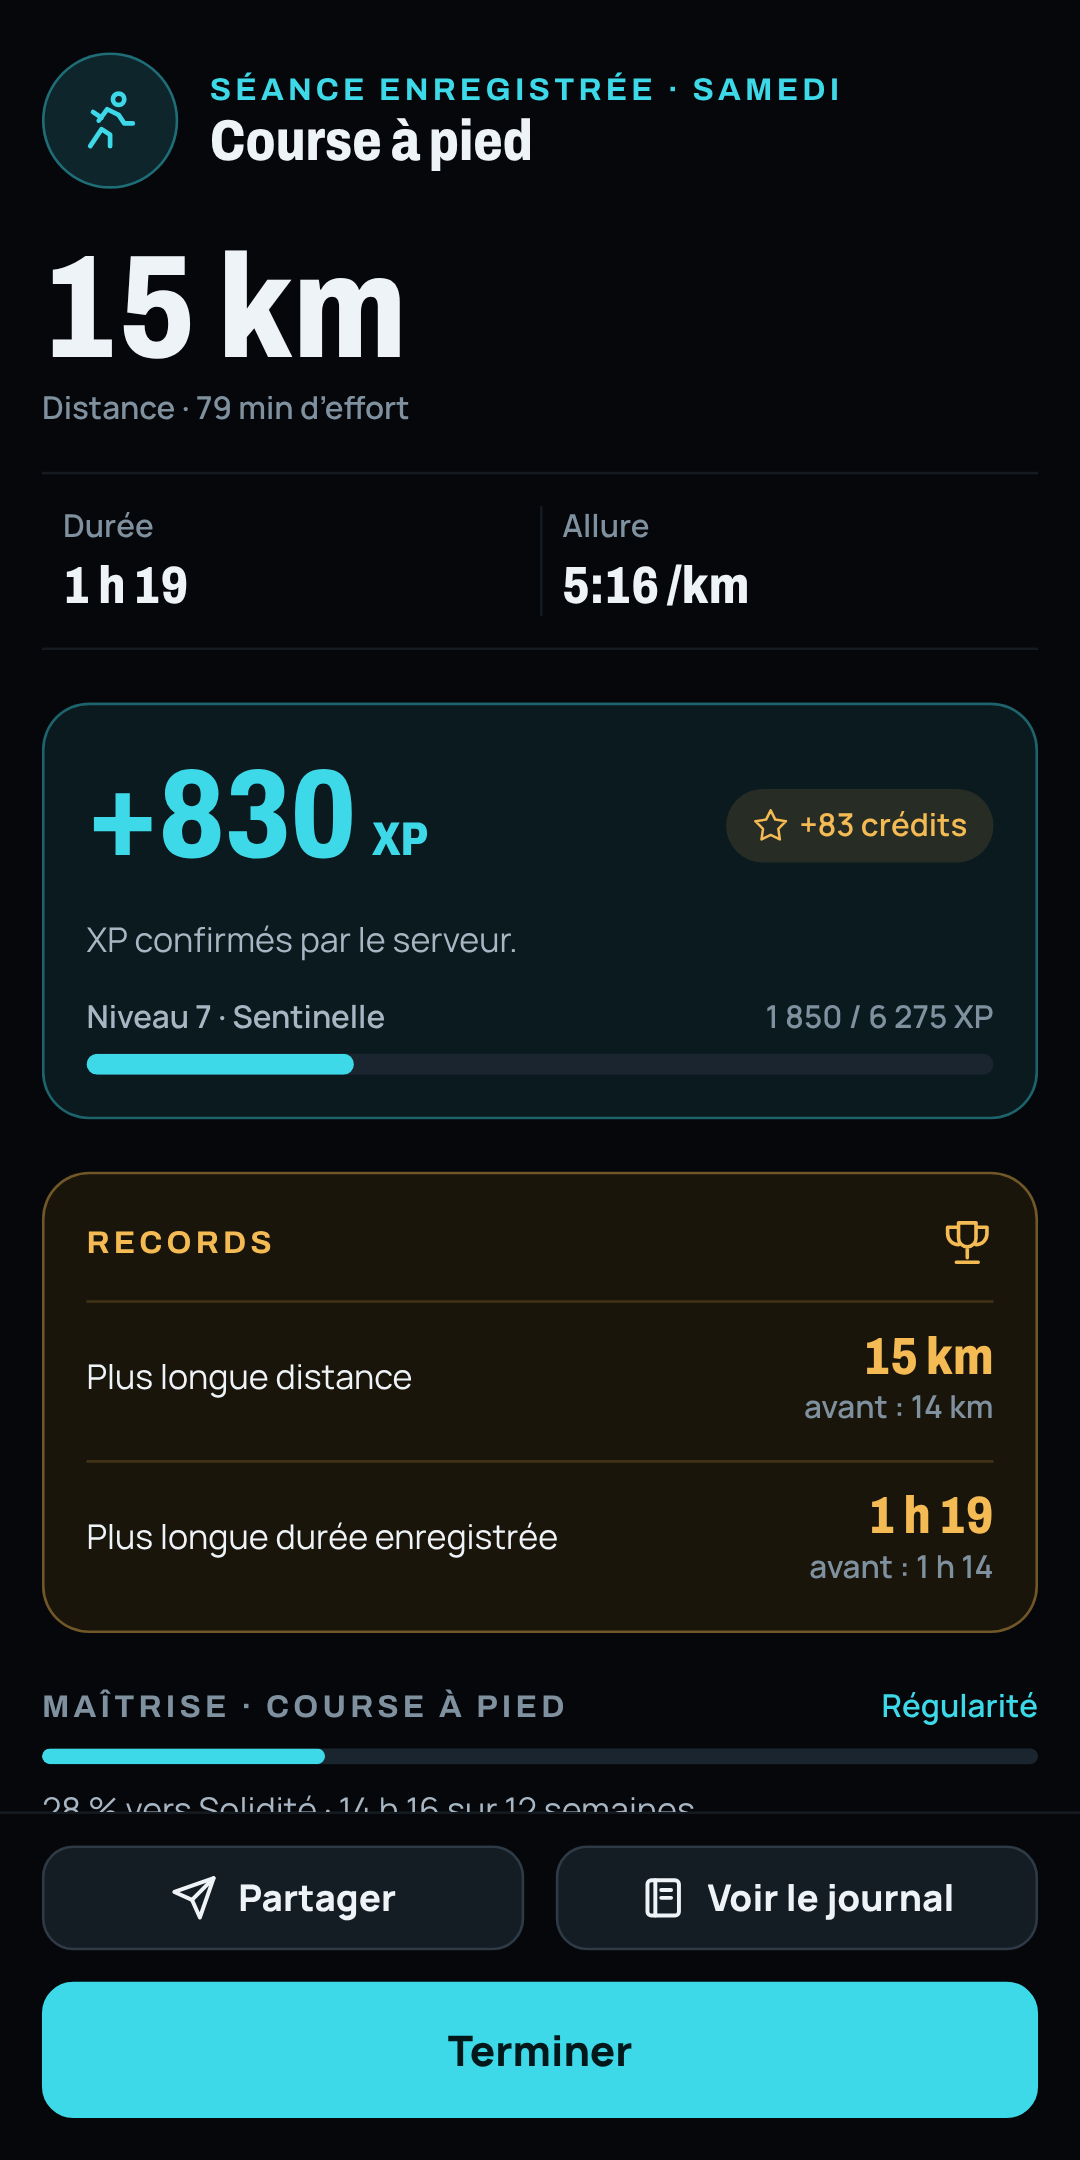
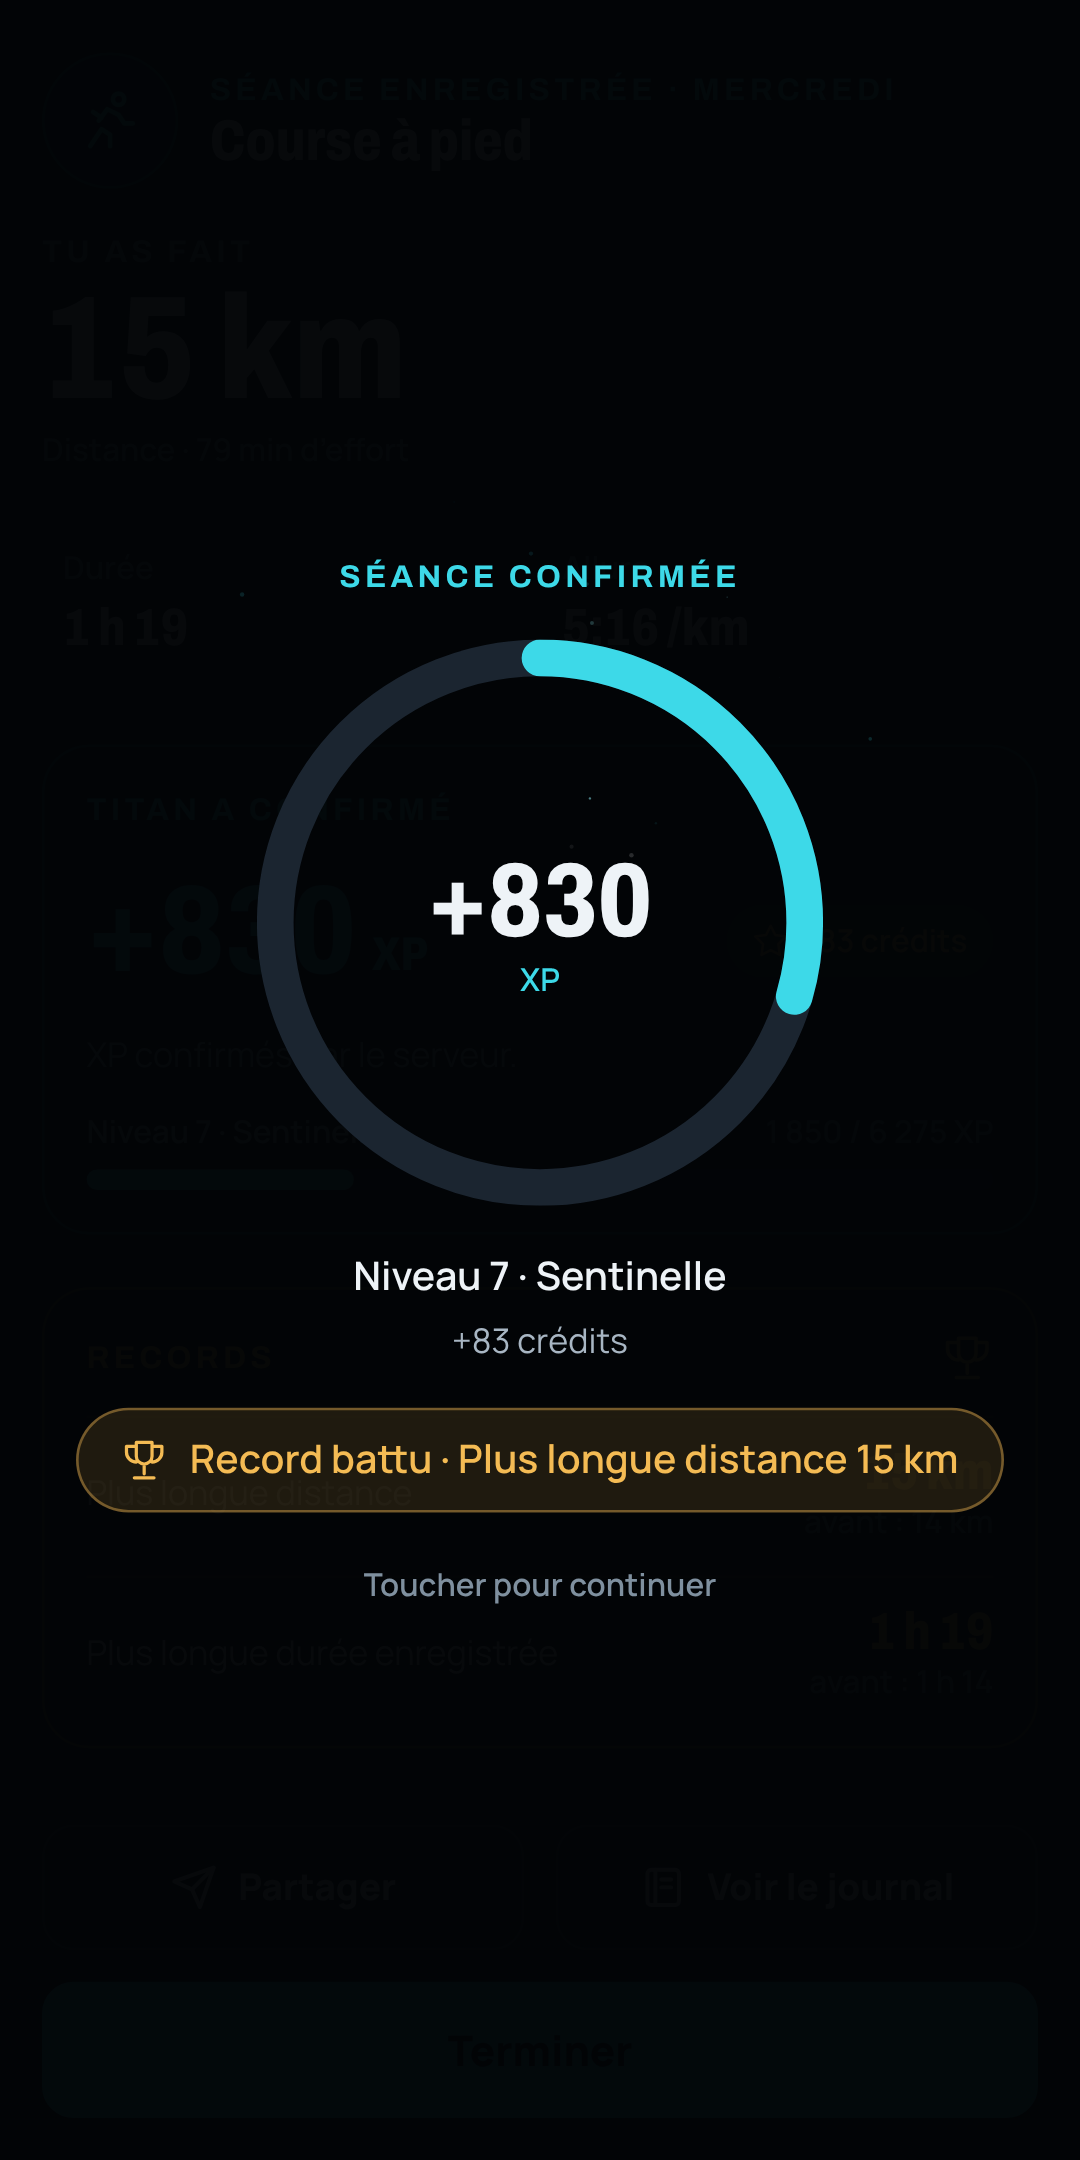
docs(play-store): regenerate the six phone screenshots from the redesigned screens
1080 × 2160, produced by scripts/preview-shots.mjs from the real React Native screens with
synthetic data (QG, session result, trends, world, adventure, records). They are preview
captures, not device captures. Asset registry regenerated.

Claude-Session: https://claude.ai/code/session_01NJ928VrMoBSE7HvtFicWBF

diff --git a/docs/V13_ASSET_REGISTRY.md b/docs/V13_ASSET_REGISTRY.md
@@ -1,6 +1,6 @@
 # Registre des assets V1.3
 
-Le JSON couvre 215 fichiers physiques, 19 familles en code, 81 glyphes, 260 entrées sport du catalogue hors ligne et 151 sources d’écran. Générer avec `node tools/v13-asset-registry.mjs` et vérifier avec `node tools/v13-asset-registry.mjs --check`.
+Le JSON couvre 215 fichiers physiques, 19 familles en code, 81 glyphes, 260 entrées sport du catalogue hors ligne et 153 sources d’écran. Générer avec `node tools/v13-asset-registry.mjs` et vérifier avec `node tools/v13-asset-registry.mjs --check`.
 
 Chaque fichier indique sa provenance, version SHA, poids, dimensions et ratio. Les références littérales et les usages par catalogue sont distingués. Le registre précise cadrage, décision, statut visuel et mesures restantes. Les captures Play Store sont incluses. Les captures de recette restent dans les preuves.
 
@@ -15,7 +15,7 @@ Chaque fichier indique sa provenance, version SHA, poids, dimensions et ratio. L
 | notifications | 1 | 1382 | 1382 |
 | public-auth-hero | 5 | 350839 | 350839 |
 | ranks | 16 | 423852 | 423852 |
-| store-listing | 15 | 6221203 | 0 |
+| store-listing | 15 | 6257727 | 0 |
 | subscription | 4 | 154842 | 154842 |
 | typography | 12 | 506691 | 506691 |
 | world-map-decoration | 1 | 28400 | 28400 |
@@ -118,7 +118,7 @@ La décision `retain` conserve le fichier. `fix` signale une vérification ou co
 | `css/fonts/manrope-latin-0.woff2` | typography | 15120 | sans dimension raster | retain |
 | `css/fonts/manrope-latin-1.woff2` | typography | 24836 | sans dimension raster | retain |
 | `css/fonts/remixicon.woff2` | typography | 143720 | sans dimension raster | retain |
-| `docs/play-store/README.md` | store-listing | 1998 | sans dimension raster | fix |
+| `docs/play-store/README.md` | store-listing | 4879 | sans dimension raster | fix |
 | `docs/play-store/feature-graphic-1024x500.png` | store-listing | 353883 | 1024×500 | fix |
 | `docs/play-store/phone-01-qg.png` | store-listing | 171459 | 1080×1920 | fix |
 | `docs/play-store/phone-02-seance.png` | store-listing | 185815 | 1080×1920 | fix |
@@ -282,12 +282,12 @@ La décision `retain` conserve le fichier. `fix` signale une vérification ou co
 | `mobile/assets/rpg/sentinel-s.webp` | avatars | 8926 | 192×192 | retain |
 | `mobile/assets/rpg/valley-small.webp` | worlds | 83722 | 800×450 | retain |
 | `mobile/docs/play-store/README.md` | store-listing | 1174 | sans dimension raster | fix |
-| `mobile/docs/play-store/phone-01-qg.png` | store-listing | 188054 | 1080×2160 | fix |
-| `mobile/docs/play-store/phone-02-apres-seance.png` | store-listing | 161039 | 1080×2160 | fix |
-| `mobile/docs/play-store/phone-03-tes-questions.png` | store-listing | 210663 | 1080×2160 | fix |
-| `mobile/docs/play-store/phone-04-monde.png` | store-listing | 834638 | 1080×2160 | fix |
-| `mobile/docs/play-store/phone-05-aventure.png` | store-listing | 2094859 | 1080×2160 | fix |
-| `mobile/docs/play-store/phone-06-records.png` | store-listing | 192398 | 1080×2160 | fix |
+| `mobile/docs/play-store/phone-01-qg.png` | store-listing | 767035 | 1080×2160 | fix |
+| `mobile/docs/play-store/phone-02-apres-seance.png` | store-listing | 136127 | 1080×2160 | fix |
+| `mobile/docs/play-store/phone-03-tes-questions.png` | store-listing | 195028 | 1080×2160 | fix |
+| `mobile/docs/play-store/phone-04-monde.png` | store-listing | 856811 | 1080×2160 | fix |
+| `mobile/docs/play-store/phone-05-aventure.png` | store-listing | 1570677 | 1080×2160 | fix |
+| `mobile/docs/play-store/phone-06-records.png` | store-listing | 189616 | 1080×2160 | fix |
 
 ## Contrôles de rendu restant ouverts
 
